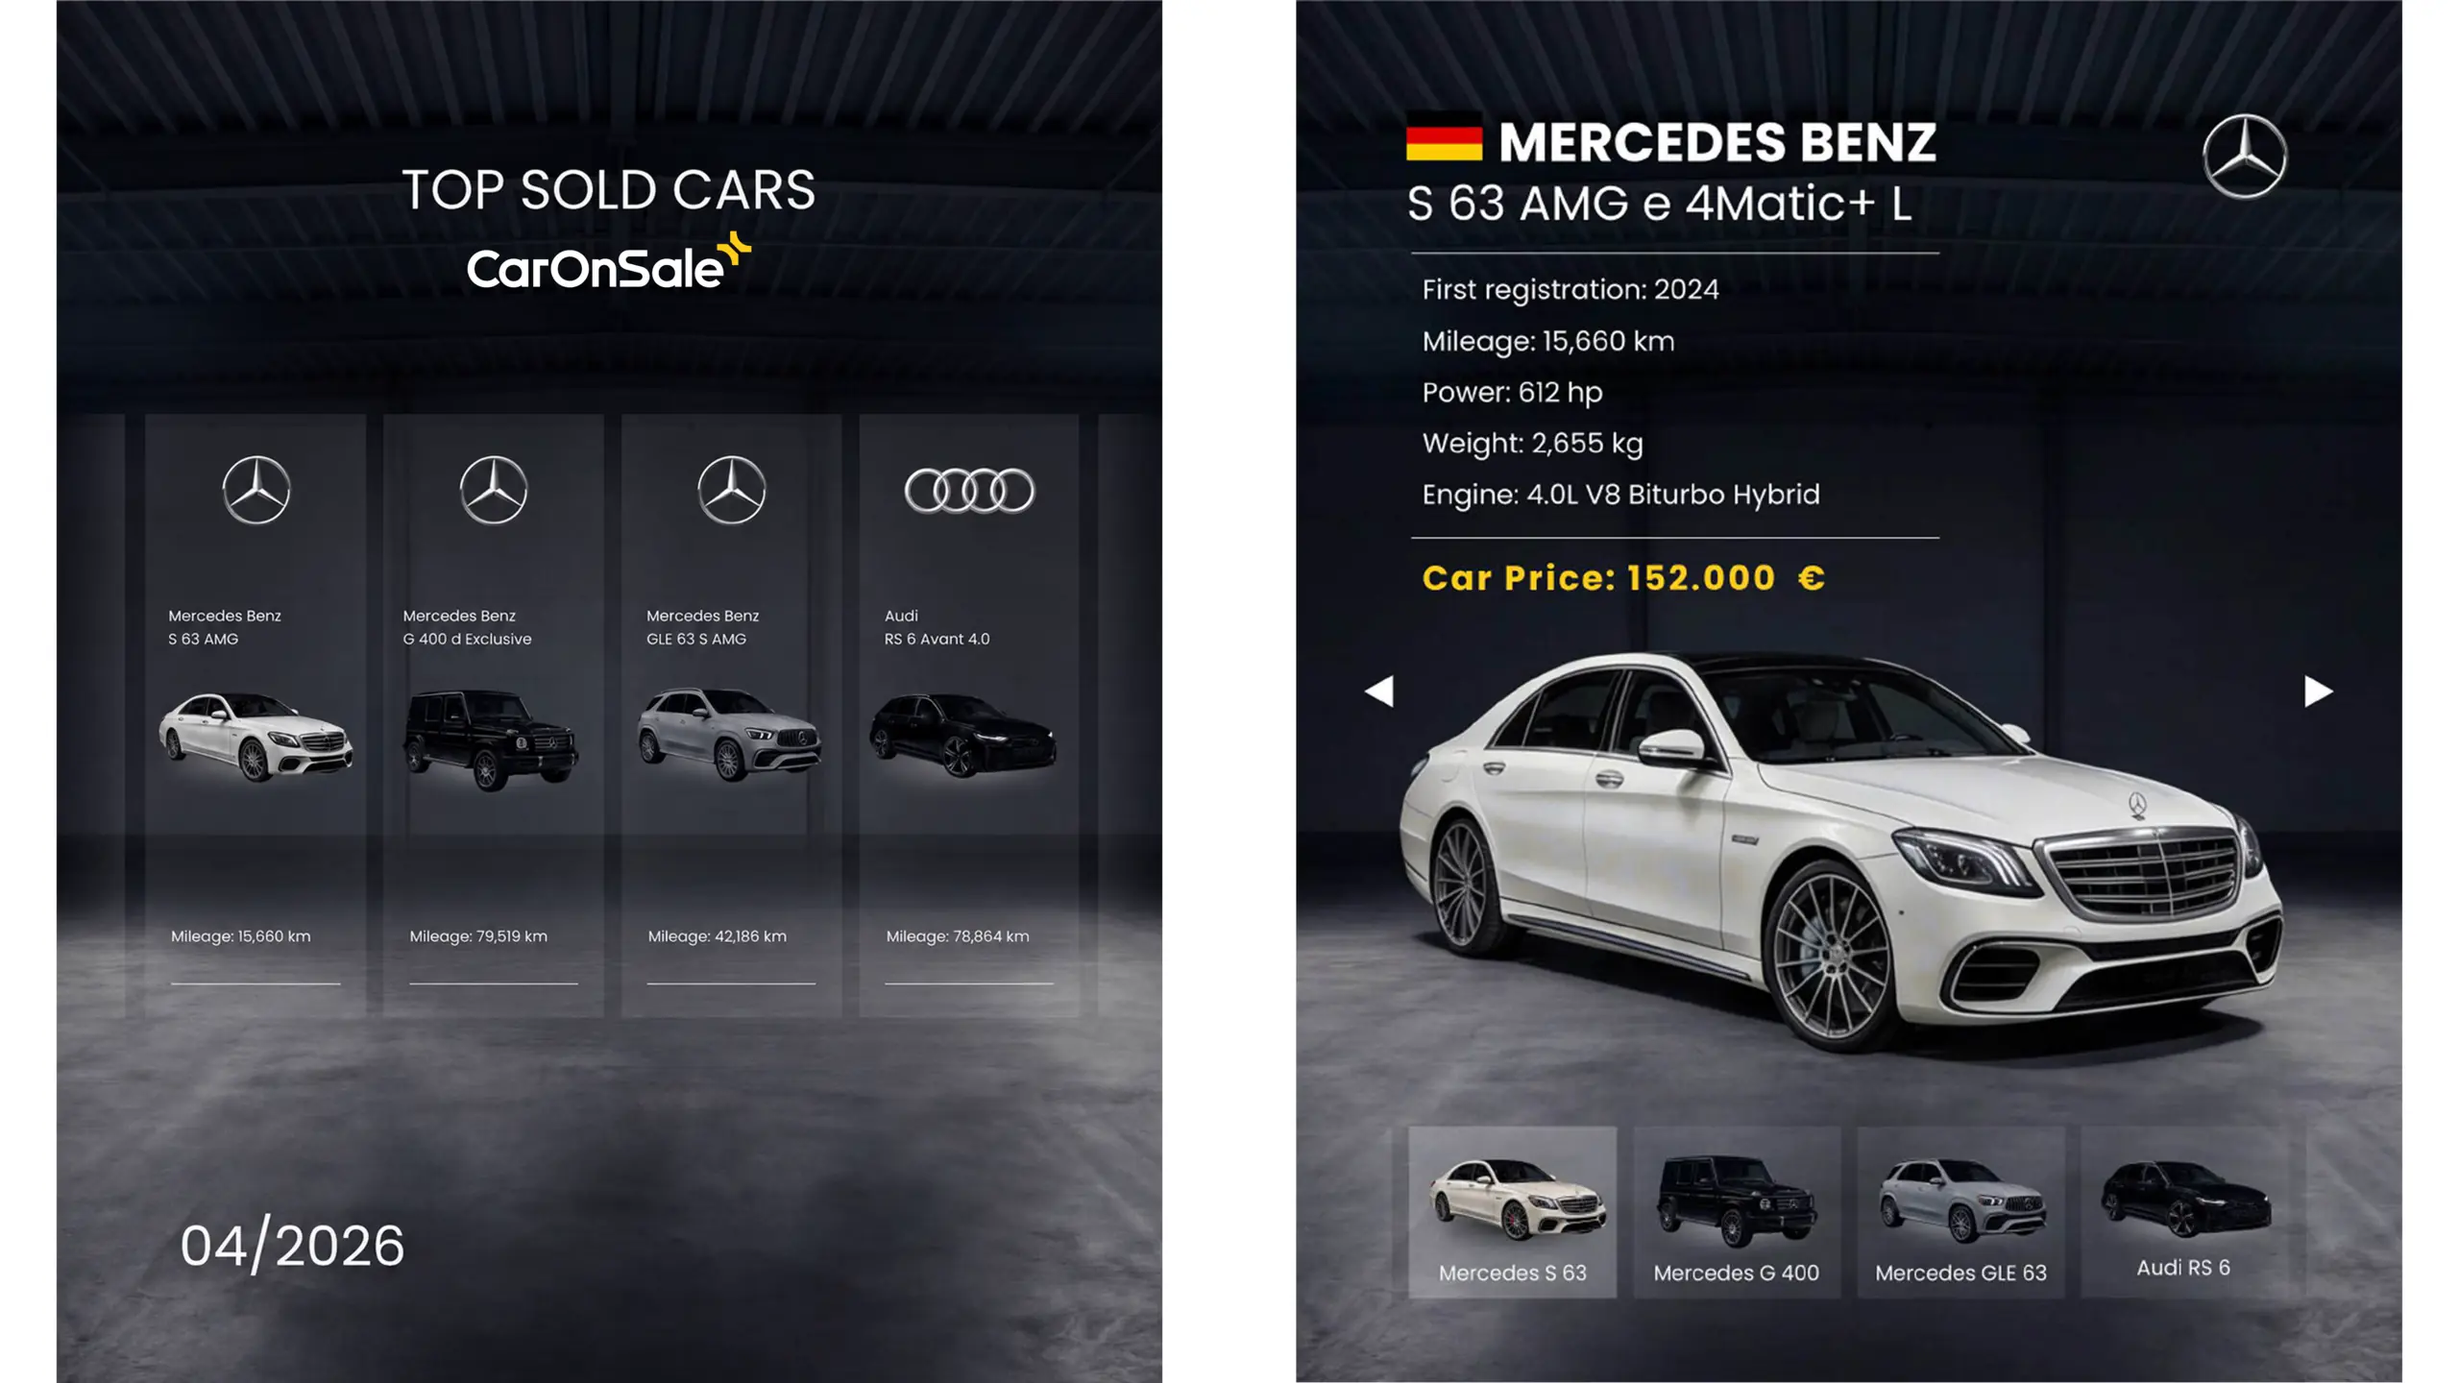
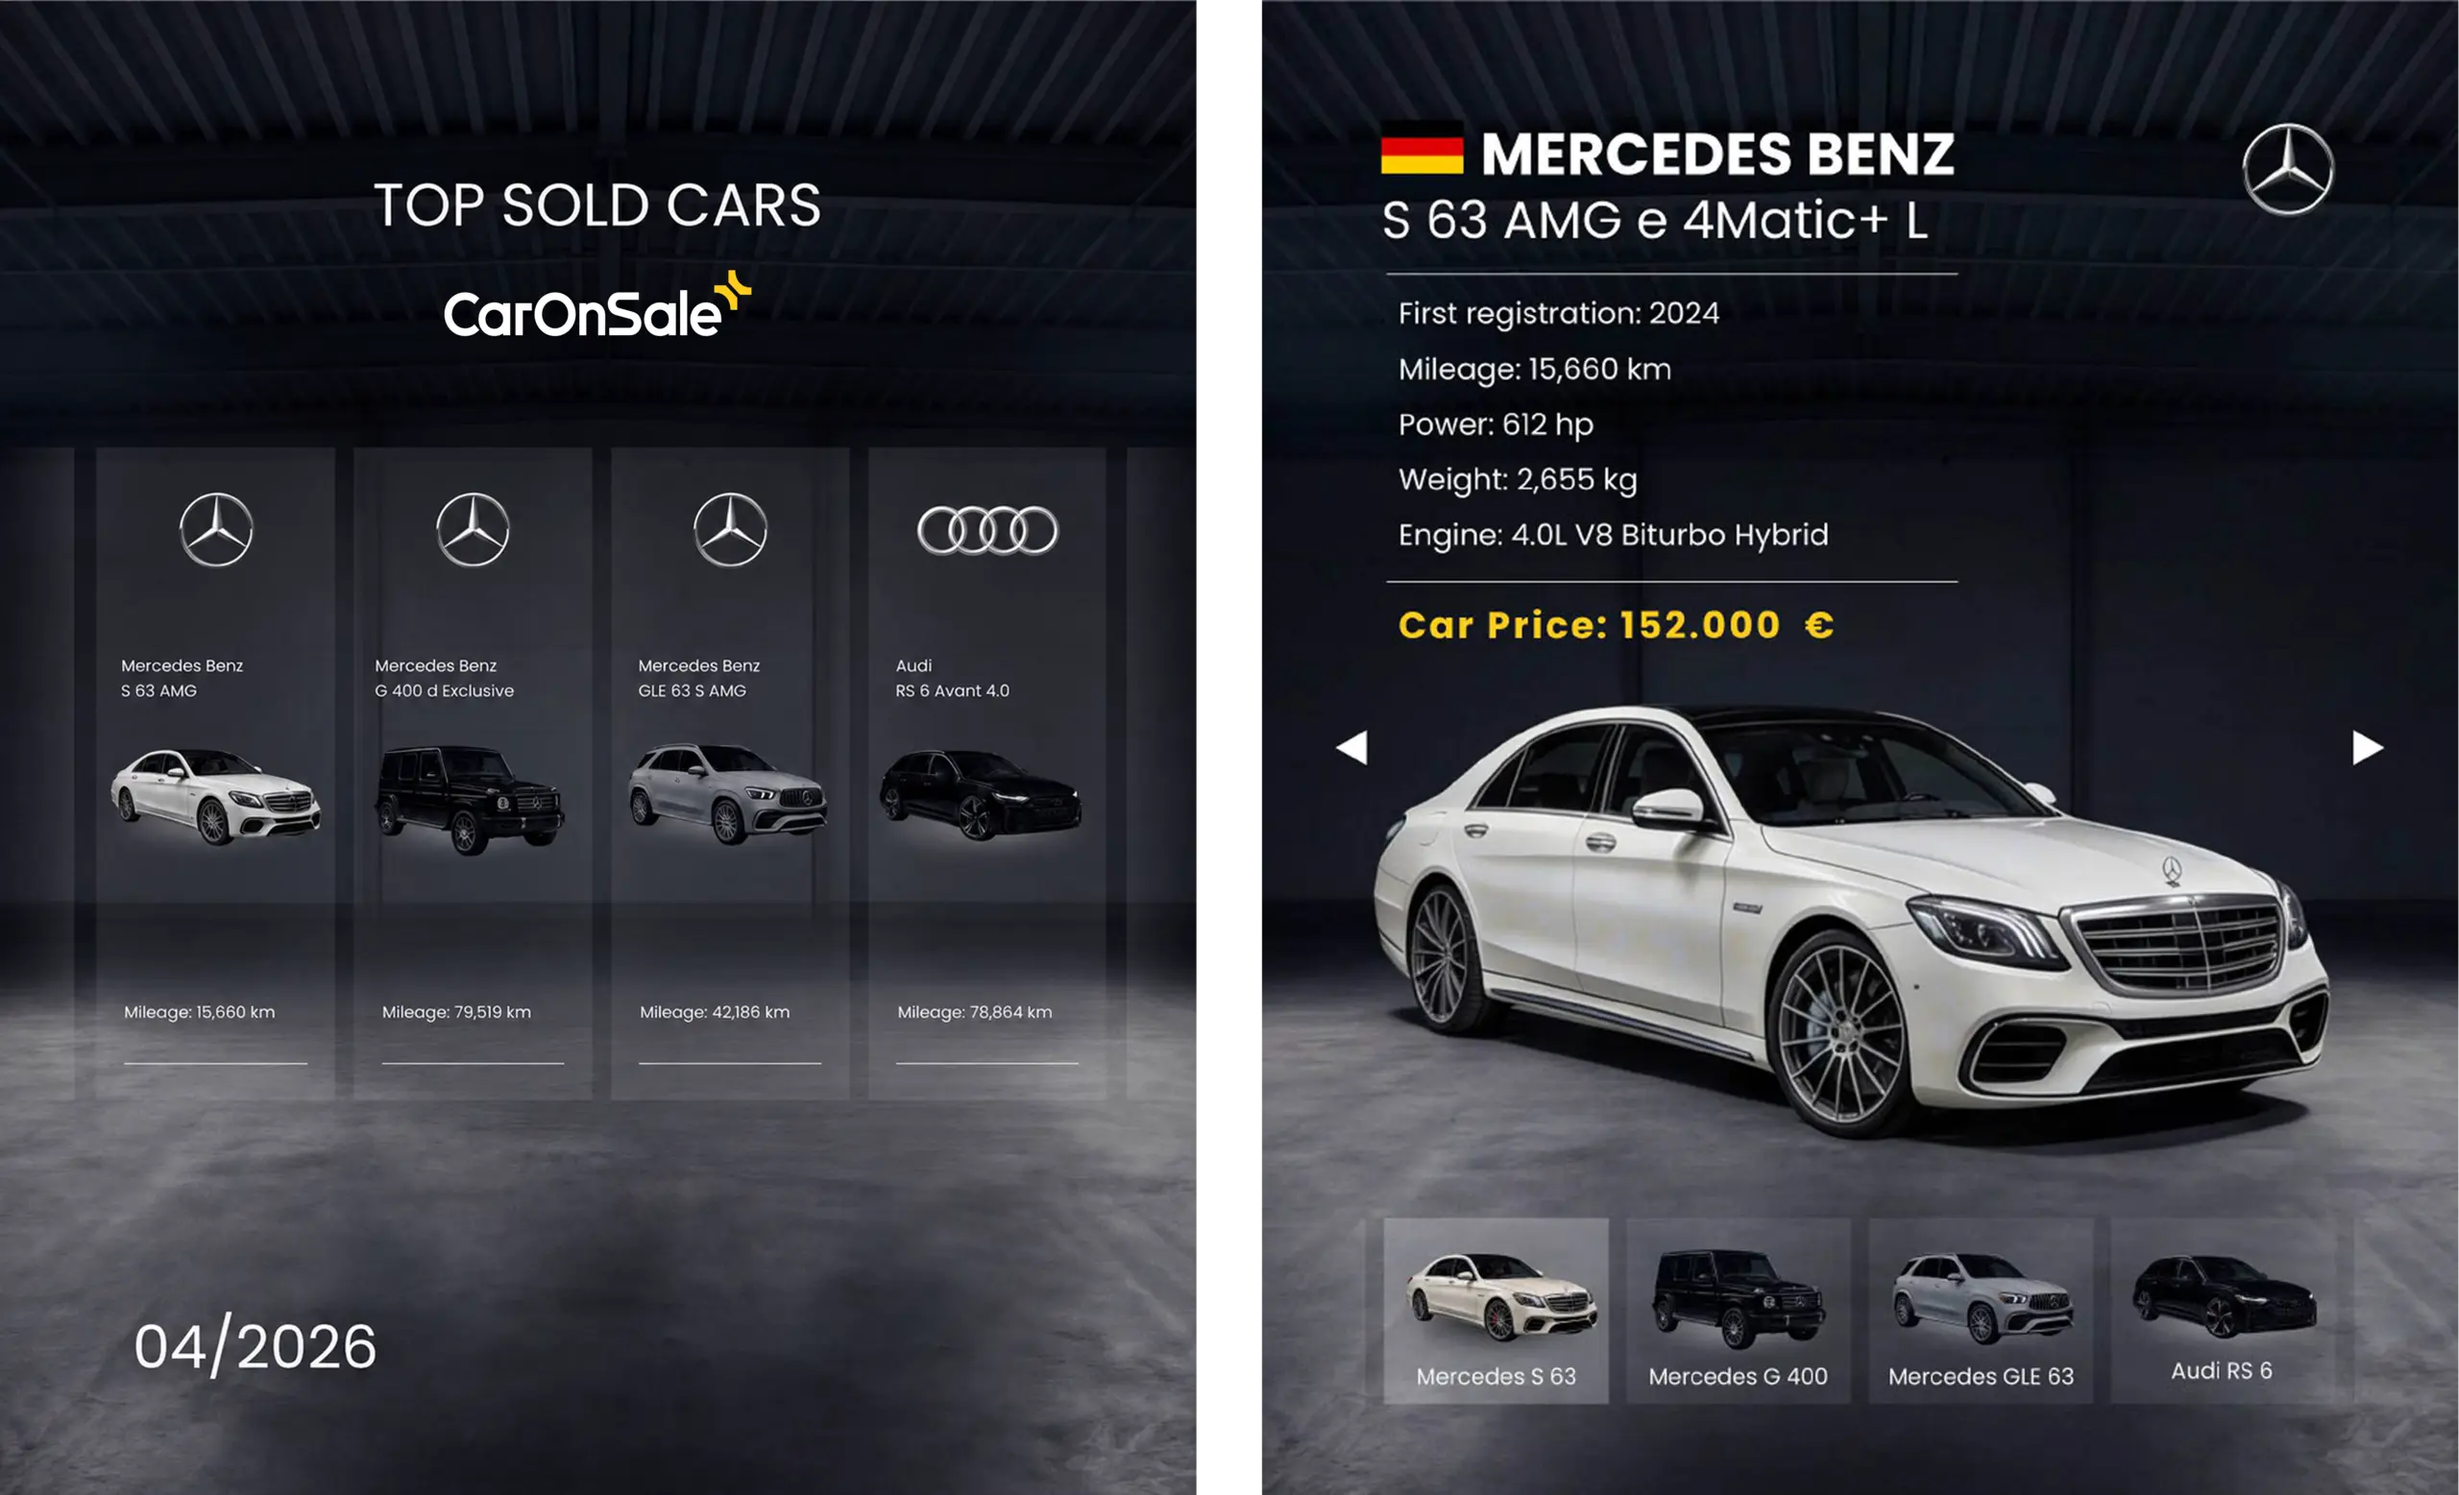
Update CarOnSale gallery images from final exports
Regenerate all CarOnSale webp from source PNGs (optimized, 2560px wide),
replacing outdated 16:9 renders for images 4-7 with the new exports, and
align gallery aspect ratios to Figma.

diff --git a/app/(lightLayout)/design-projects/car-on-sale/page.js b/app/(lightLayout)/design-projects/car-on-sale/page.js
@@ -9,7 +9,7 @@ export default function CarOnSale() {
     {
       src: "/design-projects/car-on-sale/imagen1_caronsale.webp",
       alt: "caronsale-1",
-      aspectRatio: "2560/1440",
+      aspectRatio: "1376/810",
     },
     {
       src: "/design-projects/car-on-sale/imagen2_caronsale.webp",
@@ -24,22 +24,22 @@ export default function CarOnSale() {
     {
       src: "/design-projects/car-on-sale/imagen4_caronsale.webp",
       alt: "caronsale-4",
-      aspectRatio: "16/9",
+      aspectRatio: "1376/810",
     },
     {
       src: "/design-projects/car-on-sale/imagen5_caronsale.webp",
       alt: "caronsale-5",
-      aspectRatio: "16/9",
+      aspectRatio: "1376/810",
     },
     {
       src: "/design-projects/car-on-sale/imagen6_caronsale.webp",
       alt: "caronsale-6",
-      aspectRatio: "16/9",
+      aspectRatio: "1376/810",
     },
     {
       src: "/design-projects/car-on-sale/imagen7_caronsale.webp",
       alt: "caronsale-7",
-      aspectRatio: "16/9",
+      aspectRatio: "1376/810",
     },
   ];
 
